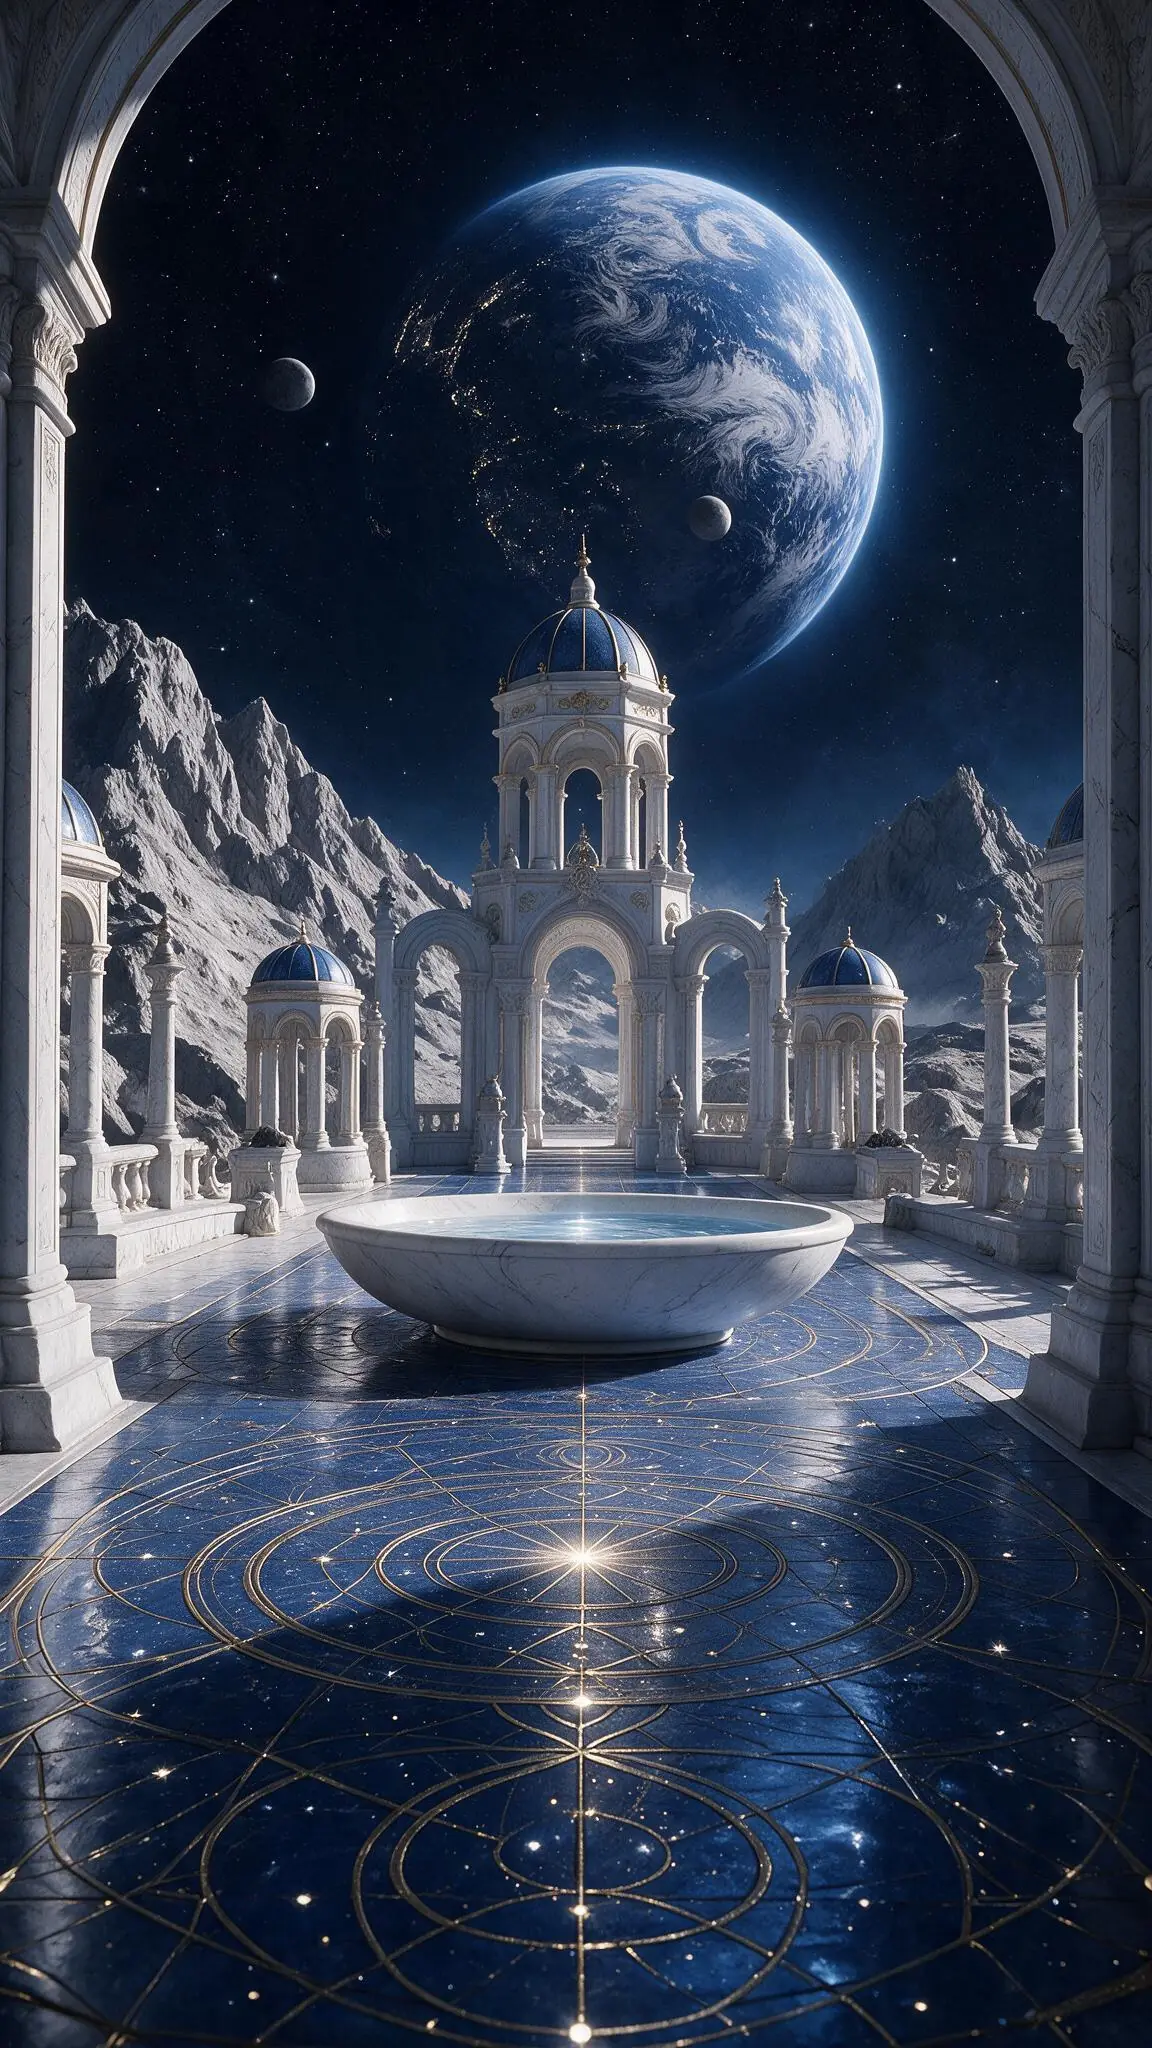
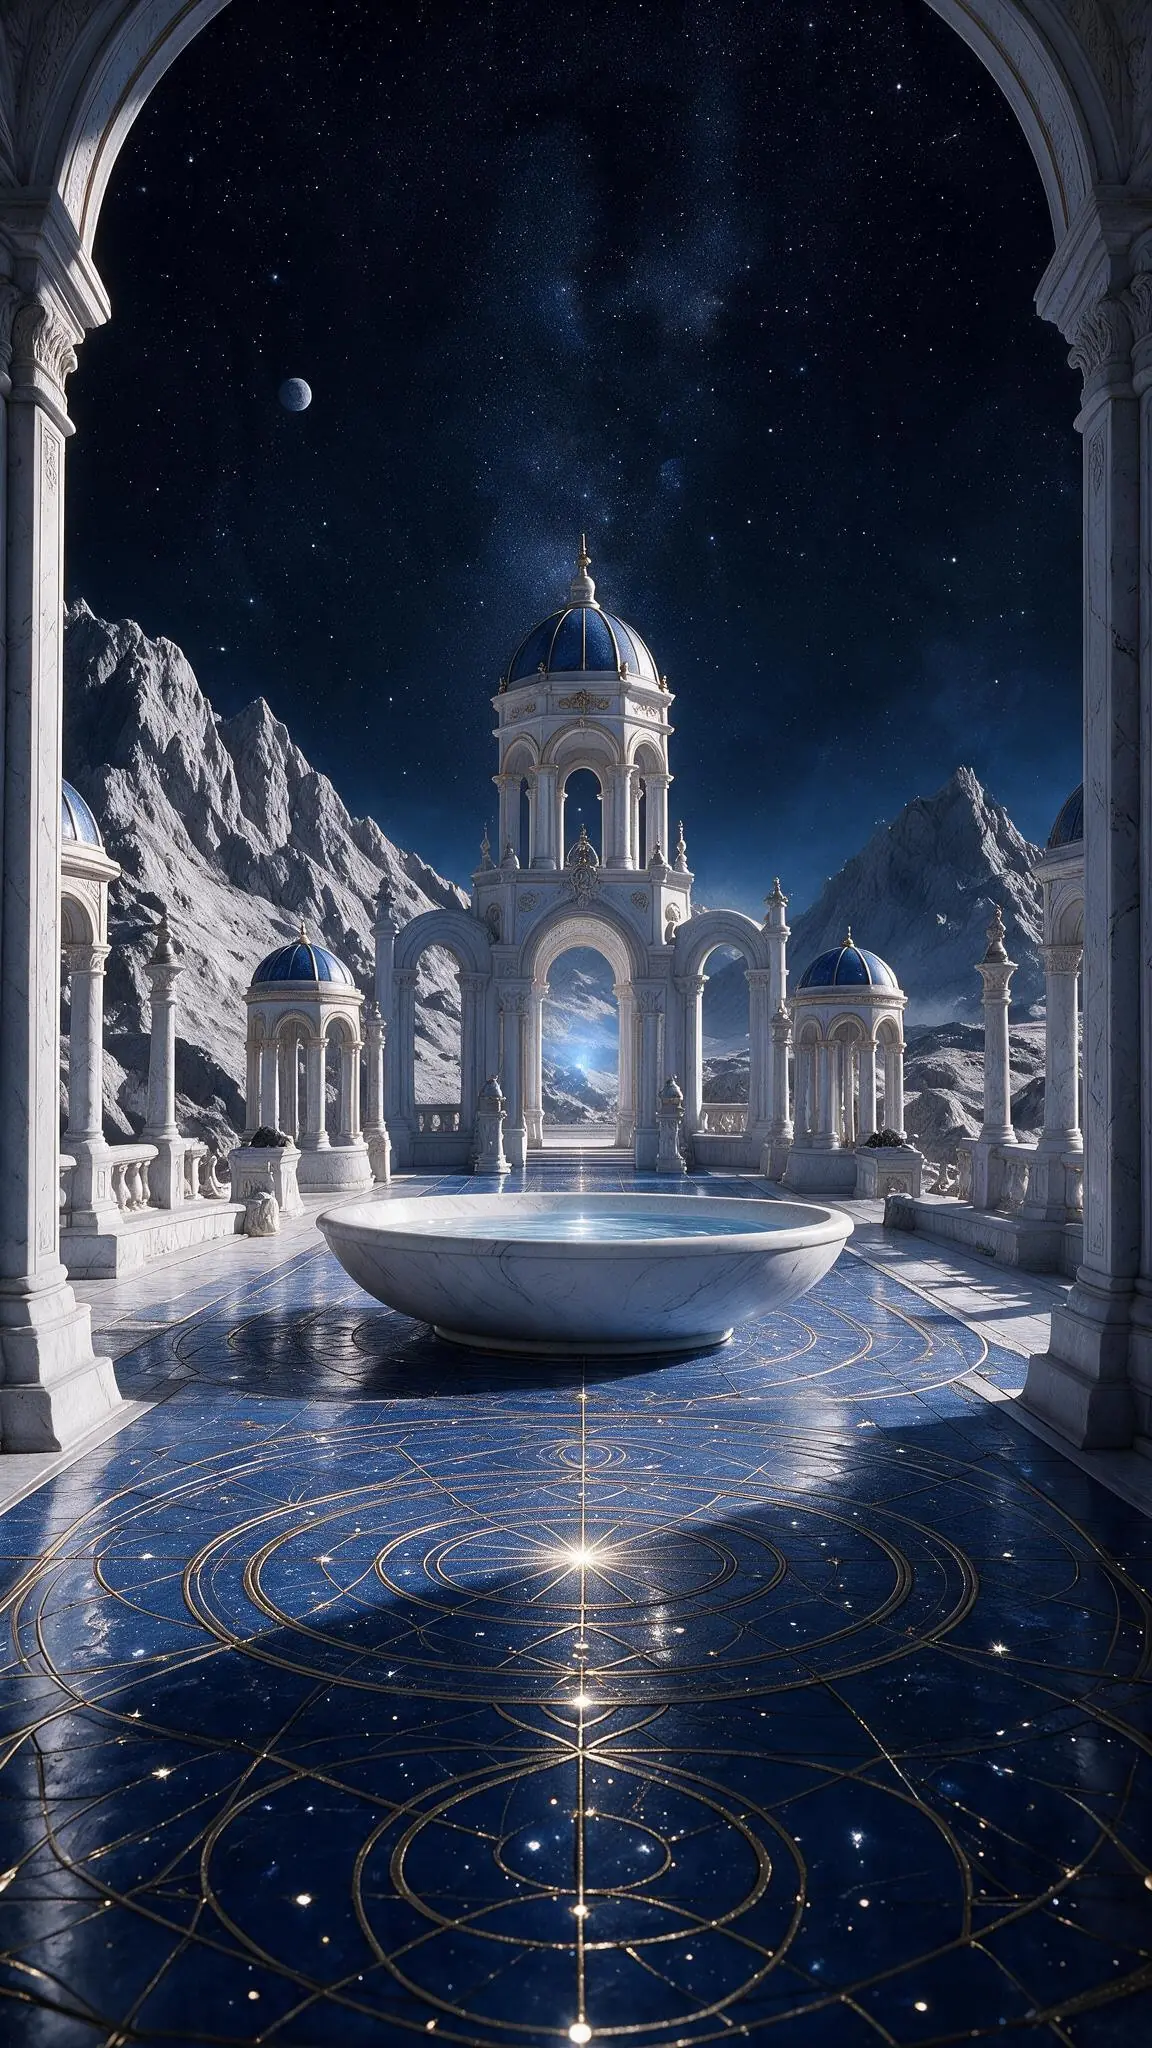
Moon temple zones: the chosen plates (Bati inward, no Earth; hall outward with the Earth; plain, no Earth), Bati standing on the plate beside the bowl, strollers in eye-level perspective
- public/talk/moon/temple-{bati,hall,outside}.webp from moon-zone-bati-v6-1, moon-zone-dachi-v5-1, moon-zone-outside-v6-1
- BowlFx TEMPLE_PLATE: the new bowl centre/width, and where Bati stands (TalkScene otsStand maps it through the place's cover fit)
- MoonTabs strollers: rows shrink toward each plate's horizon (MOON_ZONES_EYE)
- review shots in docs/review/moon-zones-final

Claude-Session: https://claude.ai/code/session_01VLiVxXYEkJP9Xt5cBFE8CF

diff --git a/apps/web/components/atelier/MoonTabs.tsx b/apps/web/components/atelier/MoonTabs.tsx
@@ -2,7 +2,7 @@
 
 import { useEffect, useRef, useState } from 'react';
 import { castLook } from '@/lib/talk/demoLooks';
-import { MOON_ZONES } from '@/lib/talk/zones';
+import { MOON_ZONES, MOON_ZONES_EYE } from '@/lib/talk/zones';
 import { dachiZones } from '@obolo/shared';
 import { DachiLinkCard } from '@/components/DachiLinkCard';
 import { GLASS } from '@/components/talk/TalkScene';
@@ -103,7 +103,7 @@ export function DachiTab({ threads, open, onOpen, onBack, banner, renderThread }
           <img src={MOON_ZONES.hall} alt="" className="pointer-events-none absolute inset-0 h-full w-full object-cover" style={{ objectPosition: 'center 30%' }} />
           <div className="pointer-events-none absolute inset-0" style={{ background: 'linear-gradient(to bottom,rgba(7,11,36,.55) 0%,rgba(7,11,36,0) 22%,rgba(7,11,36,0) 62%,rgba(7,11,36,.7) 100%)' }} />
           {hall.length ? (
-            <Strollers threads={hall} onOpen={onOpen} ground={outside.length || lonely ? '15%' : '11%'} />
+            <Strollers threads={hall} onOpen={onOpen} ground={outside.length || lonely ? 0.095 : 0.07} back={0.28} eye={MOON_ZONES_EYE.hall} />
           ) : (
             <div className="absolute inset-x-0 bottom-[14%] z-[5] flex flex-col items-center gap-4 px-8 text-center">
               {/* PLACEHOLDER (P-MOON-TABS-1): the words when there is no ダチ yet */}
@@ -145,7 +145,7 @@ export function DachiTab({ threads, open, onOpen, onBack, banner, renderThread }
             <img src={MOON_ZONES.outside} alt="" className="pointer-events-none absolute inset-0 h-full w-full object-cover" style={{ objectPosition: 'center 60%' }} />
             <div className="pointer-events-none absolute inset-0" style={{ background: 'linear-gradient(to bottom,rgba(7,11,36,.45) 0%,rgba(7,11,36,0) 25%,rgba(7,11,36,0) 70%,rgba(7,11,36,.5) 100%)' }} />
             <p className="absolute inset-x-0 top-[13.5%] z-[6] text-center text-[12px] font-bold tracking-[0.3em] text-[#f4f1ff]/80 [text-shadow:0_1px_6px_#000]">みんな</p>
-            <Strollers threads={outside} onOpen={onOpen} far ground="5%" />
+            <Strollers threads={outside} onOpen={onOpen} far ground={0.04} back={0.25} eye={MOON_ZONES_EYE.outside} />
           </section>
         )}
       </div>
@@ -265,7 +265,18 @@ const standOf = (t: ThreadInfo) => t.stand || (t.id === 'kimorin' ? characterLoo
  * 60 fps on the iPad). Reduced motion: standing, a gentle idle. Their names under their feet; a tap opens the talk; the
  * unread dot by the head. `far`: the plain outside (smaller, more of them).
  */
-function Strollers({ threads, onOpen, far = false, ground = '13%' }: { threads: ThreadInfo[]; onOpen: (id: string) => void; far?: boolean; ground?: string }) {
+/** the strollers' box: the lower 78% of the zone (the tab bar above) */
+const BOX = 0.78;
+
+function Strollers({ threads, onOpen, far = false, ground, back, eye }: {
+  threads: ThreadInfo[];
+  onOpen: (id: string) => void;
+  far?: boolean;
+  /** where the front row stands (the bottom of their names), the farthest row, and the plate's horizon (eye level): fractions of the zone's height from its bottom */
+  ground: number;
+  back: number;
+  eye: number;
+}) {
   const box = useRef<HTMLDivElement>(null);
   const els = useRef<(HTMLButtonElement | null)[]>([]);
   const figs = useRef<(HTMLImageElement | null)[]>([]);
@@ -285,9 +296,13 @@ function Strollers({ threads, onOpen, far = false, ground = '13%' }: { threads: 
   const perRow = (r: number) => threads.filter((_, i) => rowOf(i) === r).length;
   // as tall as the ground allows, but never wider than a figure's own stretch (they must not stand on each other)
   const most = Math.max(1, ...Array.from({ length: rows }, (_, r) => perRow(r)));
-  const H0 = Math.round(Math.min(size.h * (far ? 0.42 : rows > 1 ? 0.42 : 0.5), far ? 220 : 320, ((size.w / most) * 1.25) / 0.62));
-  const scaleOf = (r: number) => 1 - r * (far ? 0.2 : 0.2);
-  const liftOf = (r: number) => r * size.h * (far ? 0.12 : 0.14);
+  // the plates are eye-level (moon-zone-*): a row further back stands higher, toward the horizon, and is smaller by just
+  // as much (its height is in proportion to its feet's distance below the horizon), so they all stand on the floor
+  const zoneH = size.h / BOX;
+  const feetOf = (r: number) => zoneH * (ground + (rows > 1 ? ((back - ground) * r) / (rows - 1) : 0));
+  const scaleOf = (r: number) => (zoneH ? (eye - feetOf(r) / zoneH) / (eye - ground) : 1);
+  const liftOf = (r: number) => feetOf(r) - feetOf(0);
+  const H0 = Math.round(Math.min(zoneH * (eye - ground) * (far ? 0.55 : 0.5), far ? 220 : 320, ((size.w / most) * 1.25) / 0.62));
   const key = threads.map((t) => t.id).join('|');
   useEffect(() => {
     if (!size.w || !H0) return;
@@ -339,7 +354,7 @@ function Strollers({ threads, onOpen, far = false, ground = '13%' }: { threads: 
     // eslint-disable-next-line react-hooks/exhaustive-deps
   }, [key, size.w, size.h, H0, reduced]);
   return (
-    <div ref={box} className="absolute inset-x-0 bottom-0 top-[22%] z-[5]" data-testid={far ? 'dachi-outside' : 'dachi-strollers'}>
+    <div ref={box} className="absolute inset-x-0 bottom-0 z-[5]" style={{ top: `${(1 - BOX) * 100}%` }} data-testid={far ? 'dachi-outside' : 'dachi-strollers'}>
       <style>{'@keyframes dachi-idle{0%,100%{transform:scaleY(1)}50%{transform:scaleY(1.012)}}'}</style>
       {threads.map((t, i) => {
         const r = rowOf(i);
@@ -352,7 +367,7 @@ function Strollers({ threads, onOpen, far = false, ground = '13%' }: { threads: 
             onClick={() => onOpen(t.id)}
             aria-label={`${t.name}と話す`}
             className="absolute left-0 flex flex-col items-center will-change-transform"
-            style={{ bottom: `calc(${ground} + ${liftOf(r)}px)`, width: W, zIndex: 10 - r, filter: r ? `brightness(${1 - r * 0.1})` : undefined, transform: `translate3d(${(size.w / Math.max(1, perRow(r))) * (Math.floor(i / rows) + 0.5) - W / 2}px,0,0)` }}
+            style={{ bottom: feetOf(r), width: W, zIndex: 10 - r, filter: r ? `brightness(${1 - r * 0.1})` : undefined, transform: `translate3d(${(size.w / Math.max(1, perRow(r))) * (Math.floor(i / rows) + 0.5) - W / 2}px,0,0)` }}
           >
             <span className="relative block" style={{ width: W, height: H, animation: reduced ? 'dachi-idle 4.5s ease-in-out infinite' : undefined, transformOrigin: '50% 100%' }}>
               {/* eslint-disable-next-line @next/next/no-img-element */}

diff --git a/apps/web/components/talk/TalkScene.tsx b/apps/web/components/talk/TalkScene.tsx
@@ -218,11 +218,18 @@ export function TalkScene({
   log = false,
   framing,
   otsAt = 0.44,
+  otsStand,
   placeAspect,
   placeFx,
 }: {
   /** R9: where the partner stands in the over-the-shoulder framing (0..1 of the width) */
   otsAt?: number;
+  /**
+   * moon-zone plates: the partner stands on the place itself — `v`, where their feet are on the picture (0..1 of its
+   * height), and `h`, their height as a share of the picture's drawn width — so they stay beside what they stand by
+   * (the temple bowl) at any screen size. Needs placeAspect.
+   */
+  otsStand?: { v: number; h: number };
   /** R9: the place picture's width / height (for placeFx's cover mapping) */
   placeAspect?: number;
   /**
@@ -781,12 +788,27 @@ export function TalkScene({
   });
   // client 2026-11-24: face to face over your shoulder — you big in the front (from behind, cut by the screen's bottom),
   // the partner further back, smaller and higher, facing the camera
+  // the place's cover fit (object-cover at center 30%, in its box 4% wider each side and 4% taller at the top)
+  const cover = (() => {
+    if (!placeAspect) return null;
+    const cw = w * 1.08;
+    const ch = h * 1.04;
+    const dh = Math.max(cw / placeAspect, ch);
+    const dw = dh * placeAspect;
+    return { cw, ch, dw, dh, ox: (cw - dw) * 0.5, oy: (ch - dh) * 0.3 };
+  })();
   const ots = framing === 'ots' && n === 2 && !!self && !firstPerson && !!self.views?.back;
   if (ots) {
     const other = row.find((p) => !p.self)!;
     // R9 (client): the partner is the subject — large and sharp, a little left of centre; your back is a soft presence
     // in the lower right, bigger, blurred (depth of field) and spilling off the right edge
-    spots.set(other.id, { x: otsAt, bottom: stageH * 0.06, h: stageH * 0.9, z: 1, w: 0.5, chest: false });
+    const feet = otsStand && cover ? cover.oy - h * 0.04 + otsStand.v * cover.dh : null;
+    spots.set(
+      other.id,
+      feet != null && cover
+        ? { x: otsAt, bottom: Math.max(0, stageTop + stageH - feet), h: Math.min(otsStand!.h * cover.dw, stageH * 1.1), z: 1, w: 0.5, chest: false }
+        : { x: otsAt, bottom: stageH * 0.06, h: stageH * 0.9, z: 1, w: 0.5, chest: false },
+    );
     spots.set(self!.id, { x: 0.9, bottom: -stageH * 1.15, h: stageH * 2.05, z: 3, w: 0.8, chest: false });
   }
   // a wide picture at an end of the row (a painted resident with something held out to one side) is kept inside the
@@ -1082,15 +1104,9 @@ export function TalkScene({
             {/* eslint-disable-next-line @next/next/no-img-element */}
             <img src={place} alt="" className="absolute inset-0 h-full w-full object-cover" style={{ objectPosition: 'center 30%' }} />
             <div className="absolute inset-0" style={{ background: 'linear-gradient(to bottom,rgba(7,11,36,.55) 0%,rgba(7,11,36,0) 22%,rgba(7,11,36,0) 62%,rgba(7,11,36,.7) 100%)' }} />
-            {placeFx && placeAspect && (() => {
+            {placeFx && cover && (() => {
               // the same cover fit as the picture (object-cover, center 30%) in this box (the root, 4% wider each side and taller at the top)
-              const cw = size.w * 1.08;
-              const ch = size.h * 1.04;
-              const sc = Math.max(cw / placeAspect, ch);
-              const dw = sc * placeAspect;
-              const dh = sc;
-              const ox = (cw - dw) * 0.5;
-              const oy = (ch - dh) * 0.3;
+              const { ox, oy, dw, dh } = cover!;
               return placeFx({ at: (u, v) => ({ x: ox + u * dw, y: oy + v * dh }), scale: dw });
             })()}
           </div>

diff --git a/apps/web/components/atelier/BowlFx.tsx b/apps/web/components/atelier/BowlFx.tsx
@@ -9,9 +9,9 @@ import { KindMark } from './WorkCard';
  * (light rising off the surface, ripples spreading); when it is done the work rises out of the bowl toward the talk.
  * Transform and opacity only (60 fps on the iPad); reduced motion: a gentle fade, nothing moves.
  * The bowl's place on the temple plate (MOON_ZONES.bati, public/talk/moon/temple-bati.webp, 1152 × 2048): the water's
- * centre and its width, measured on the picture.
+ * centre and its width, measured on the picture; `bati`: where {bati} stands on it, beside the bowl (TalkScene otsStand).
  */
-export const TEMPLE_PLATE = { src: MOON_ZONES.bati, aspect: 1152 / 2048, bowl: { u: 0.508, v: 0.6, w: 0.39 } } as const;
+export const TEMPLE_PLATE = { src: MOON_ZONES.bati, aspect: 1152 / 2048, bowl: { u: 0.508, v: 0.598, w: 0.37 }, bati: { v: 0.8, h: 0.62 } } as const;
 
 export type BowlState = 'idle' | 'glow' | { rise: { key: string; image?: string | null; kind: AtelierKind } };
 

diff --git a/apps/web/components/atelier/AtelierChat.tsx b/apps/web/components/atelier/AtelierChat.tsx
@@ -855,7 +855,9 @@ export function AtelierChat({ first, talk, story, onList, onBluena, unread, onBa
         place={story ? PLACE_BG.moon : TEMPLE_PLATE.src}
         placeAspect={story ? undefined : TEMPLE_PLATE.aspect}
         placeFx={story ? undefined : (m) => <BowlFx state={bowl} at={m.at} scale={m.scale} reduced={reducedMotion} />}
-        otsAt={0.27}
+        otsAt={0.25}
+        // {bati} beside the bowl, a step in front of it (on the temple plate)
+        otsStand={story ? undefined : TEMPLE_PLATE.bati}
         top={story ? 40 : 0}
         bar={{ title: partner.name, onList, onBluena, unread, onBack, below: banner }}
         fixedSelfFace={me?.story?.[TALK_FIXED_FACE_KEY] === '1'}

diff --git a/apps/web/lib/talk/zones.ts b/apps/web/lib/talk/zones.ts
@@ -14,3 +14,6 @@ export const MOON_ZONES = {
   outside: '/talk/moon/temple-outside.webp',
   bati: '/talk/moon/temple-bati.webp',
 } as const;
+
+/** each plate's horizon (the camera's eye level), as a fraction of its height from the bottom: the strollers' rows shrink toward it */
+export const MOON_ZONES_EYE = { hall: 0.47, outside: 0.4 } as const;
